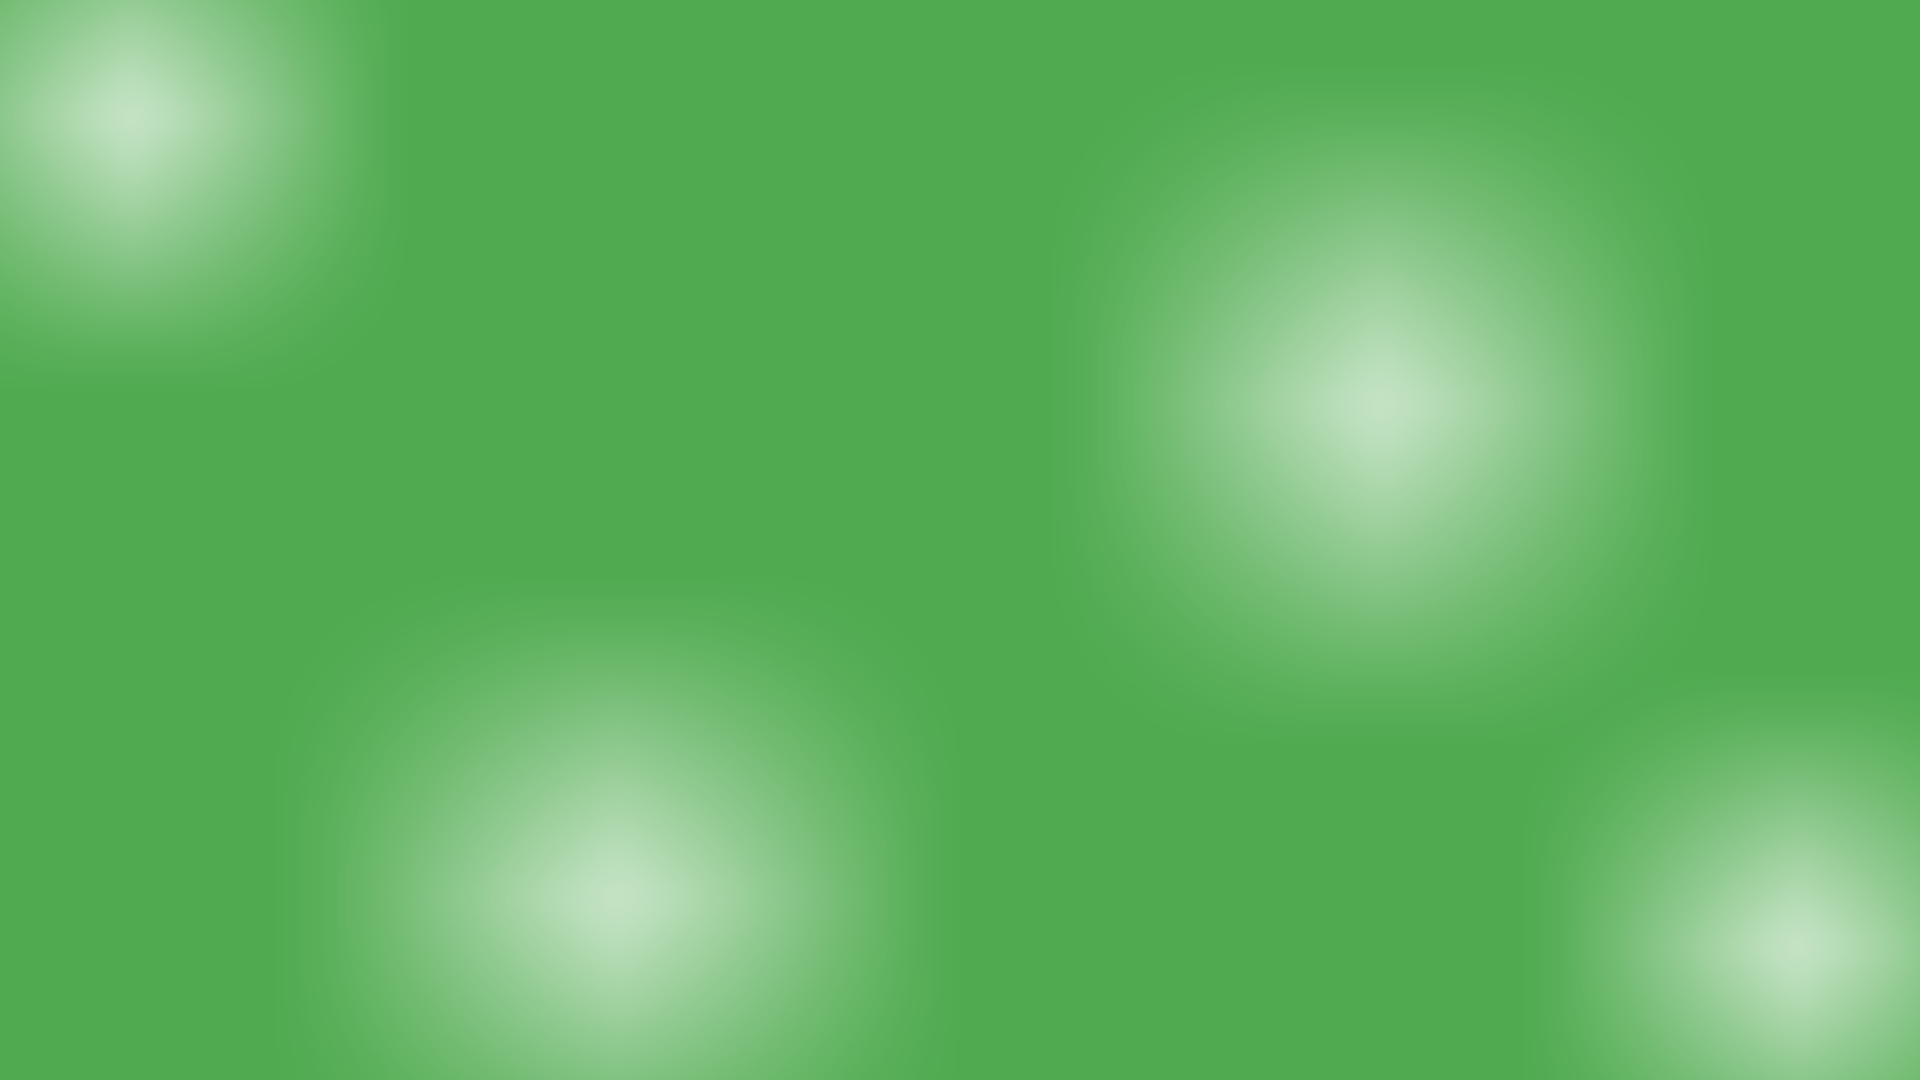
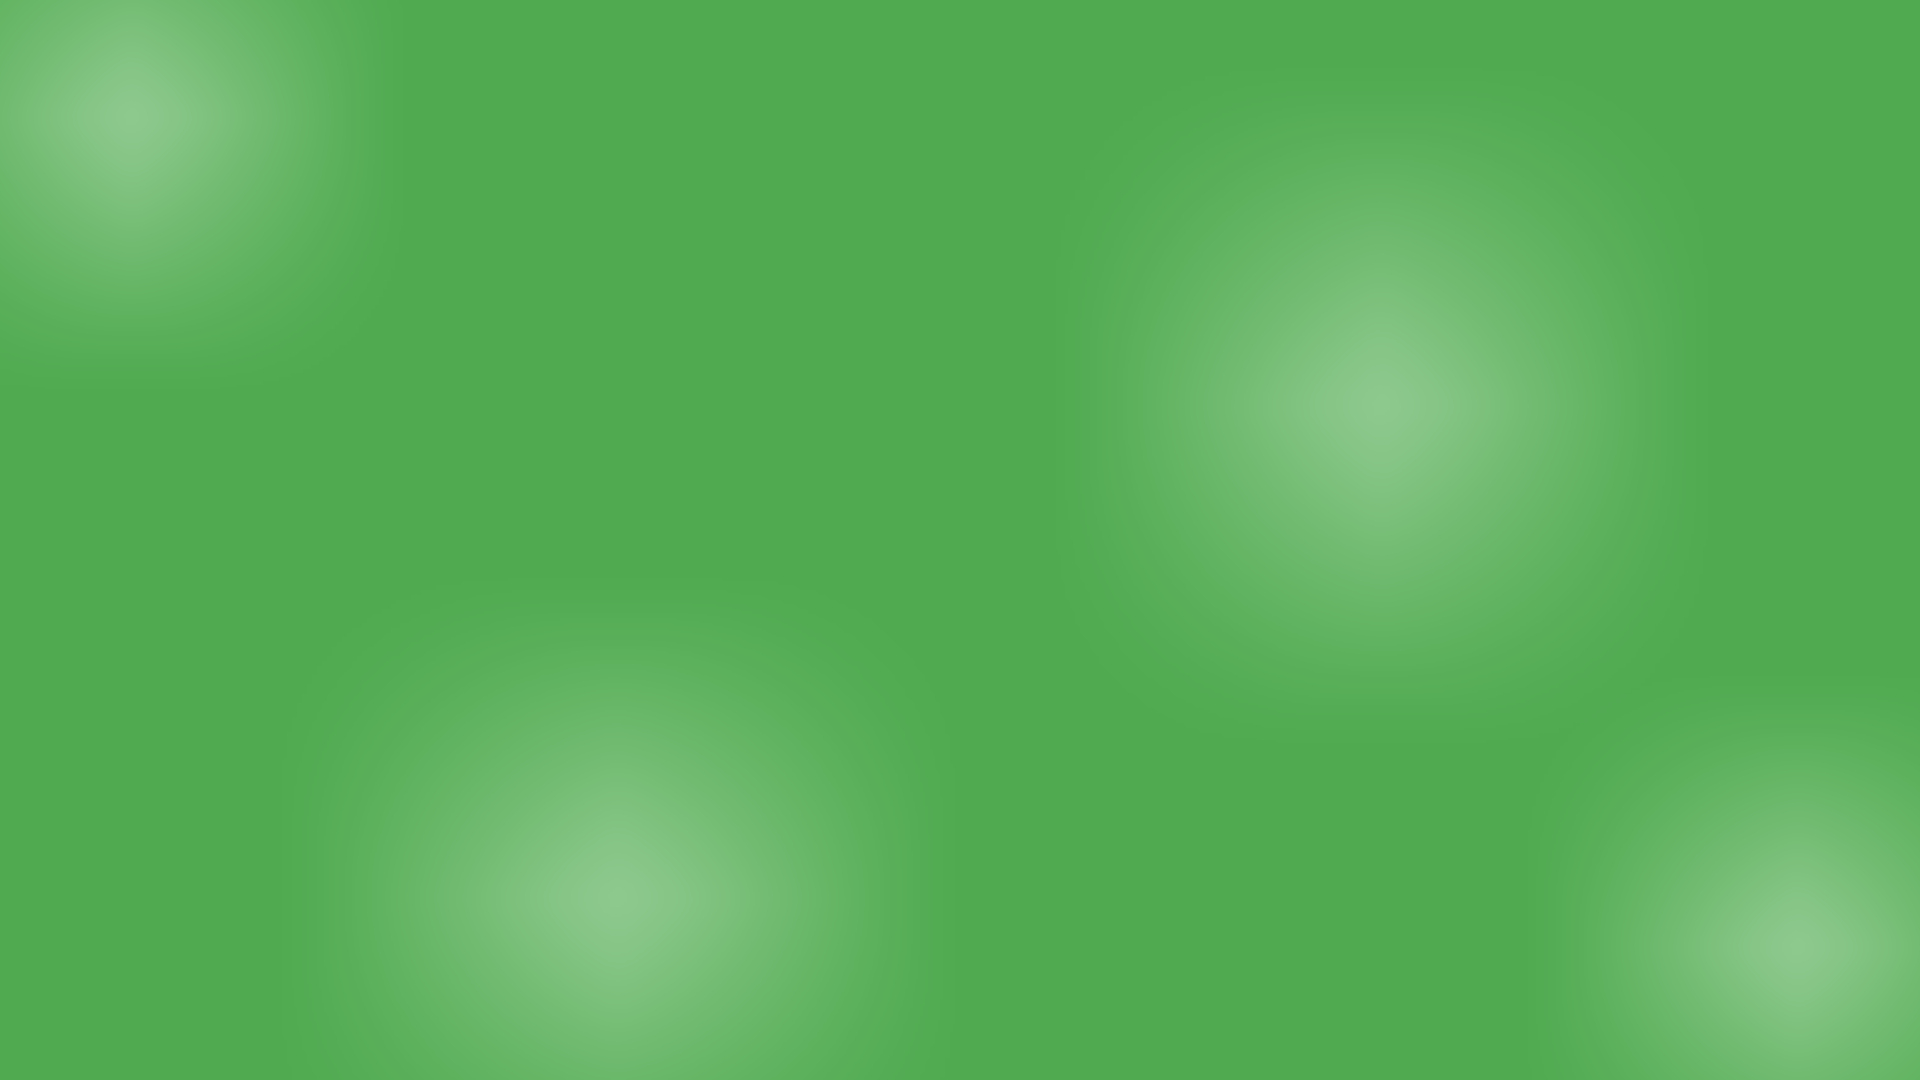
changed background image, changed padding in index page, added new font for signup page

diff --git a/styles.css b/styles.css
@@ -1,4 +1,5 @@
 @import url('https://fonts.googleapis.com/css2?family=DM+Sans:wght@400;500;700&display=swap');
+@import url('https://fonts.googleapis.com/css2?family=Comfortaa:wght@300..700&family=DM+Sans:ital,opsz,wght@0,9..40,900;1,9..40,900&display=swap');
 
 body {
     margin: 0;
@@ -27,6 +28,13 @@ a {
     font-style: normal; /* Default: can be 'italic' if needed */
 }
 
+.comfortaa-text {
+    font-family: "Comfortaa", sans-serif;
+    font-optical-sizing: auto;
+    font-weight: 300;
+    font-style: normal;
+}
+
 /* Navbar */
 .navbar {
     display: flex;
@@ -53,7 +61,6 @@ a {
 }
 
 .hero {
-    padding: 50px 20px;
     display: flex;
     justify-content: center;
     align-items: center;
@@ -83,7 +90,7 @@ a {
     padding: 10px 20px;
     font-size: 1rem;
     background-color: #9DC19D;
-    /*border: 1px, solid, black;*/
+    border: none;
     border-radius: 15px;
     color: #000;
     cursor: pointer;
@@ -116,7 +123,6 @@ a {
 
 .certified h2 {
     font-size: 2.5rem;
-    margin-bottom: 20px;
     color: #D0D0D0;
 }
 
@@ -124,6 +130,7 @@ a {
     height: auto; 
     max-width: 100%; 
     margin-top: 10px;
+    margin-right: 40px;
 }
 
 .certified-img-spacing {

diff --git a/signup.html b/signup.html
@@ -9,9 +9,9 @@
 <body>
     <header>
         <div class="navbar">
-            <div class="logo">UFO.com</div>
+            <div class="logo"><div class="dm-sans-title">UFO.com</div></div>
             <nav>
-                <ul>
+                <ul class="comfortaa-text">
                     <li><a href="index.html">home</a></li>
                     <li><a href="signup.html">register</a></li>
                     <li><a href="login.html">login</a></li>

diff --git a/signup_style.css b/signup_style.css
@@ -84,7 +84,7 @@ a {
 }
 
 .image-section2 img {
-    width: 100%;
+    width: 90%;
     height: 100%;
     object-fit: cover;
     display: block;
